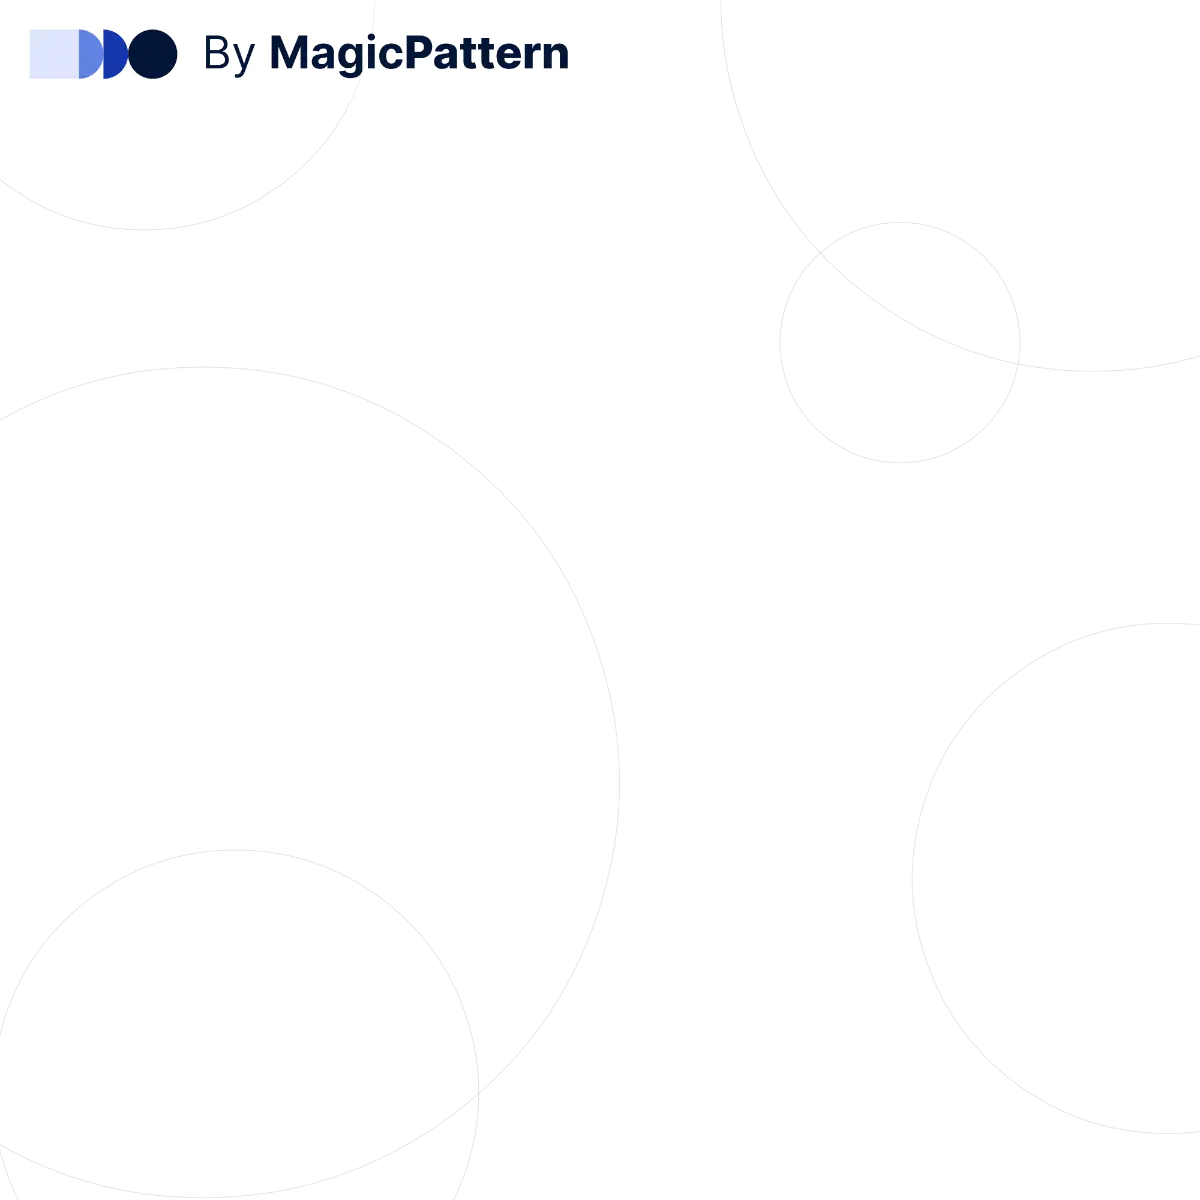
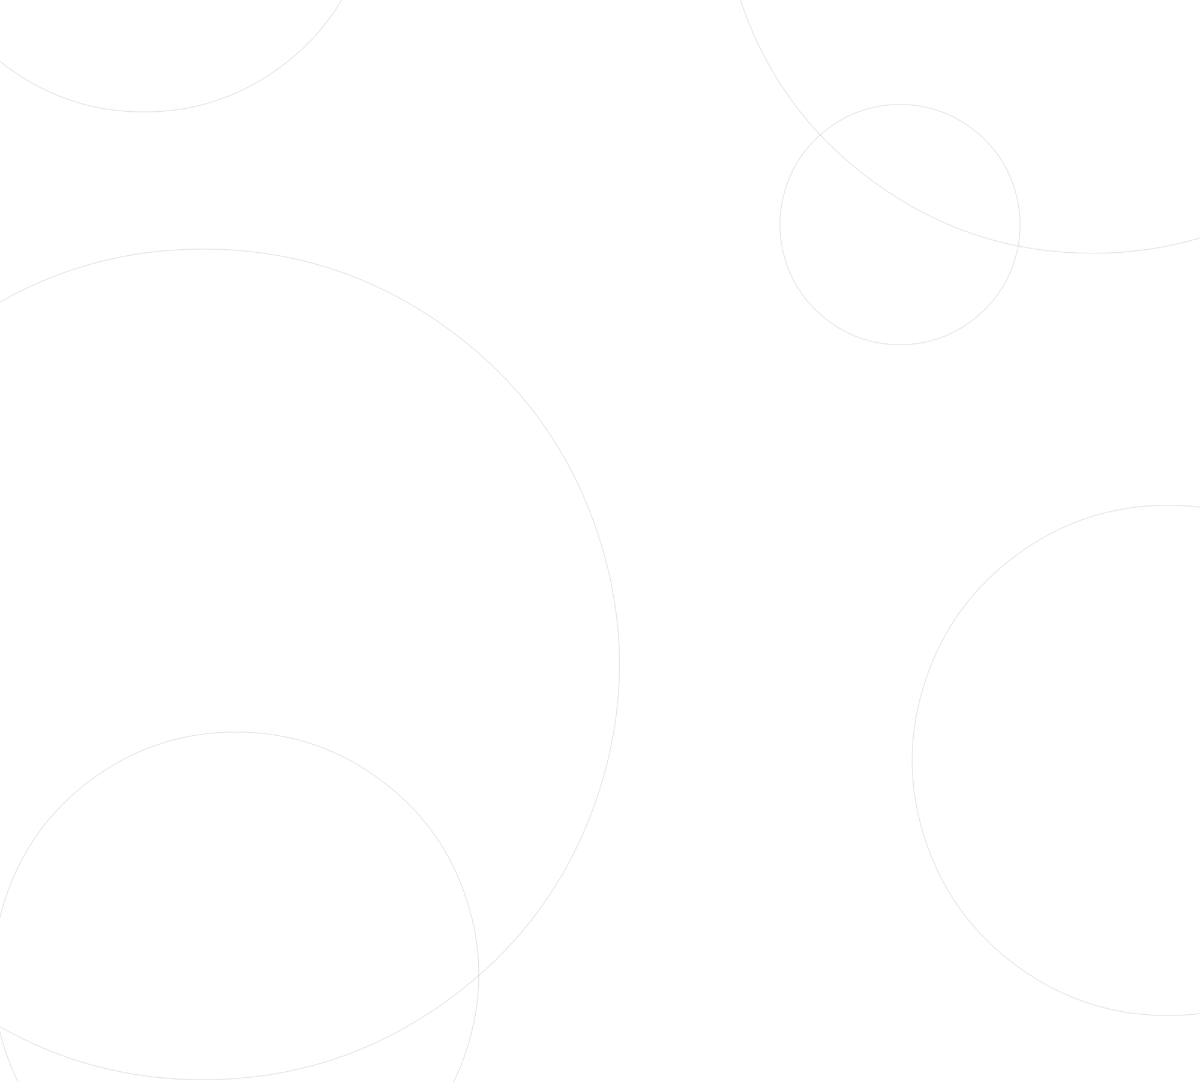
style: Refinamentos

Changed region(s): [[0.0, 0.0, 0.4933, 0.0915]]

diff --git a/src/index.html b/src/index.html
@@ -9,7 +9,7 @@
 	<body class="barra-rolagem">
 		<header class="fixed w-full bg-neutral-100 backdrop-blur-sm z-40">
 			<nav class="container grid-cols-2 items-center py-4 lg:py-0 lg:items-start">
-				<h5 class="lg:my-4 lg:text-base">Douglas Moura</h5>
+				<p class="text-xs lg:my-4 xl:text-sm">Douglas Moura</p>
 				<span class="justify-end lg:hidden">
 					<iconify-icon id="btn-abrir-menu" icon="tabler:menu-2" class="text-3xl right-0 cursor-pointer"></iconify-icon>
 				</span>

diff --git a/src/style.css b/src/style.css
@@ -19,7 +19,7 @@
 	}
 	
 	body {
-		@apply bg-neutral-100 dark:bg-black bg-circulos bg-center bg-no-repeat bg-fixed
+		@apply bg-neutral-100 dark:bg-black bg-circulos bg-cover bg-center bg-no-repeat bg-fixed
 	}
 	
 	section {
